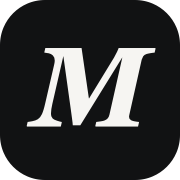
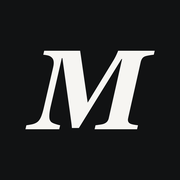
Фавикон без скруглений и белой рамки: знак «М» на всю иконку

diff --git a/index.html b/index.html
@@ -35,10 +35,10 @@
 <meta name="twitter:image" content="https://maksim-site.ru/assets/og-preview.png?v=20260718-2">
 <meta name="twitter:image:alt" content="Максим. Современные сайты для бизнеса">
 
-<link rel="icon" href="/favicon.ico?v=20260718-1" sizes="any">
-<link rel="icon" href="/assets/favicon.svg?v=20260718-2" type="image/svg+xml">
-<link rel="icon" href="/assets/favicon-32.png?v=20260718-1" type="image/png" sizes="32x32">
-<link rel="apple-touch-icon" href="/assets/apple-touch-icon.png?v=20260718-1">
+<link rel="icon" href="/favicon.ico?v=20260818-1" sizes="any">
+<link rel="icon" href="/assets/favicon.svg?v=20260818-1" type="image/svg+xml">
+<link rel="icon" href="/assets/favicon-32.png?v=20260818-1" type="image/png" sizes="32x32">
+<link rel="apple-touch-icon" href="/assets/apple-touch-icon.png?v=20260818-1">
 
 <script>(function(){
   var root=document.documentElement;
@@ -1207,7 +1207,7 @@ html.dark .contact h2{filter:drop-shadow(0 0 24px rgba(243,241,236,.13))}
 <header id="header">
   <div class="wrap nav">
     <a href="#" class="logo" aria-label="Максим - на главную">
-      <img class="logo-mark" src="assets/favicon.svg?v=20260708-1" alt="" width="36" height="36">
+      <img class="logo-mark" src="assets/favicon.svg?v=20260818-1" alt="" width="36" height="36">
       <span class="logo-text">Максим <em>web dev</em></span>
     </a>
     <nav class="nav-links">
@@ -2264,7 +2264,7 @@ function activateServiceRow(index){
     <a href="https://t.me/maksim_site" target="_blank" rel="noopener" class="btn btn-w magnetic frev">Написать в Telegram</a>
   </div>
   <div class="wrap contact-foot">
-    <span class="foot-brand"><img class="logo-mark" src="assets/favicon.svg?v=20260708-1" alt="" width="28" height="28">© 2026 Максим</span>
+    <span class="foot-brand"><img class="logo-mark" src="assets/favicon.svg?v=20260818-1" alt="" width="28" height="28">© 2026 Максим</span>
     <a href="https://t.me/maksim_site" target="_blank" rel="noopener">t.me/maksim_site</a>
     <span>Сайты под ключ</span>
   </div>
